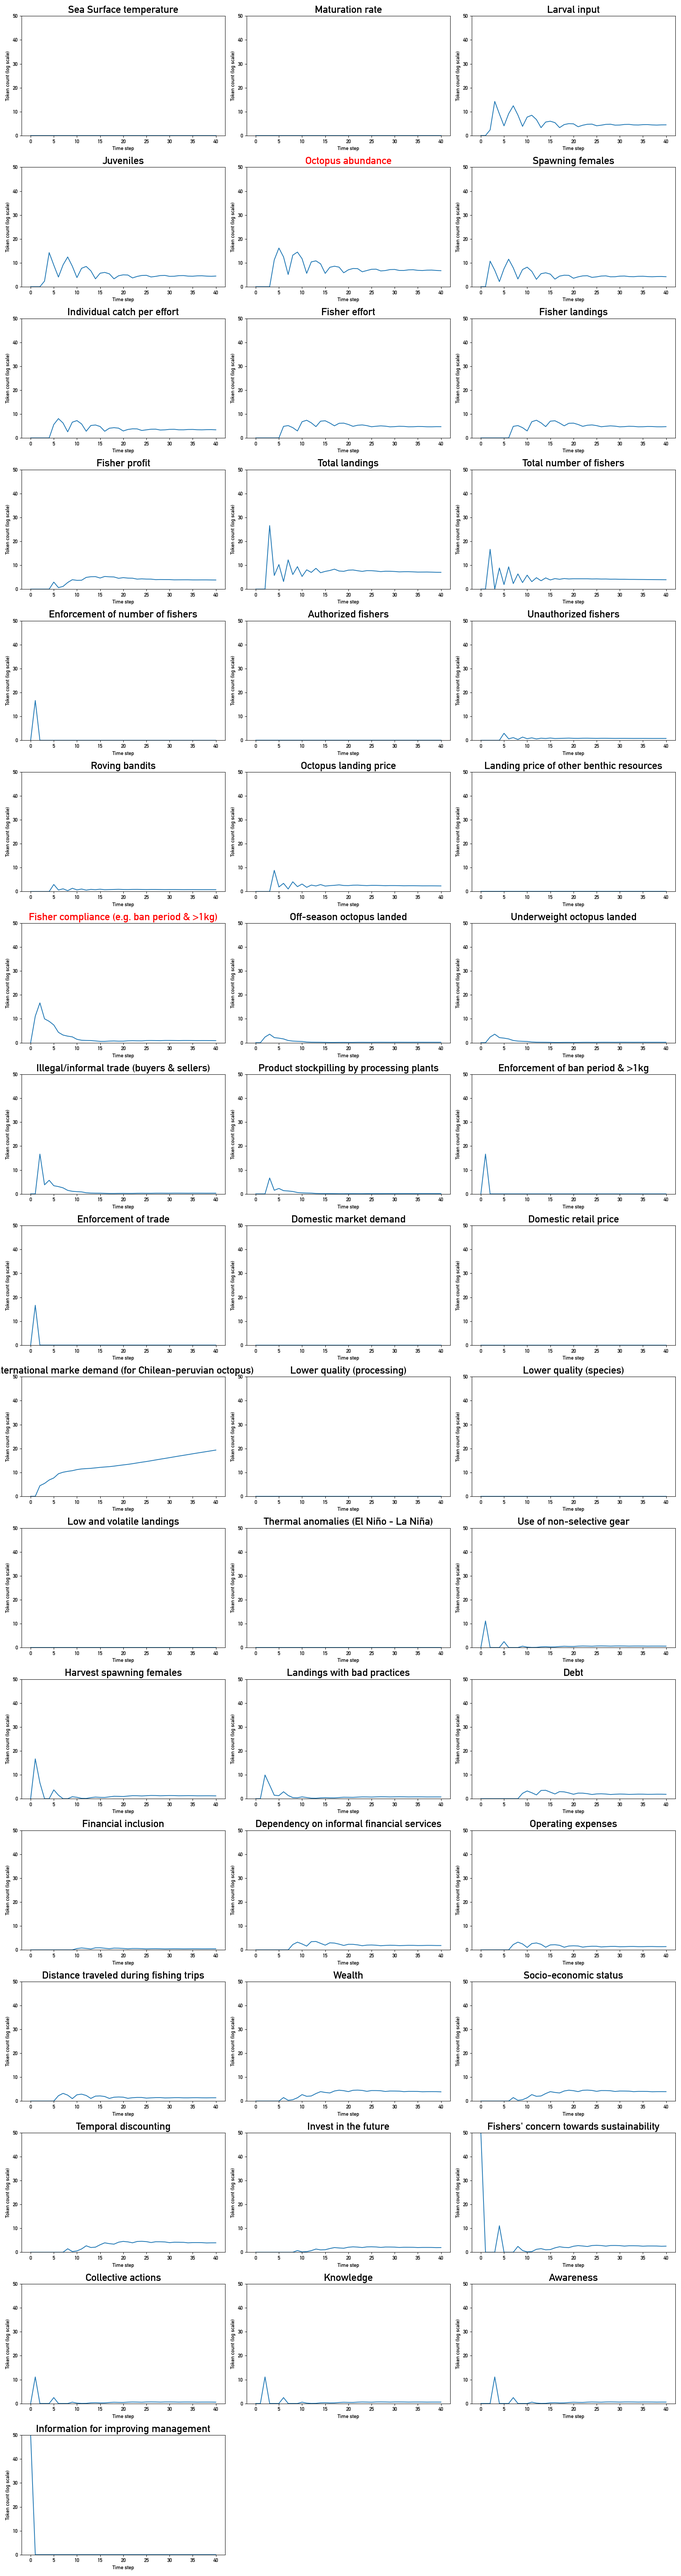
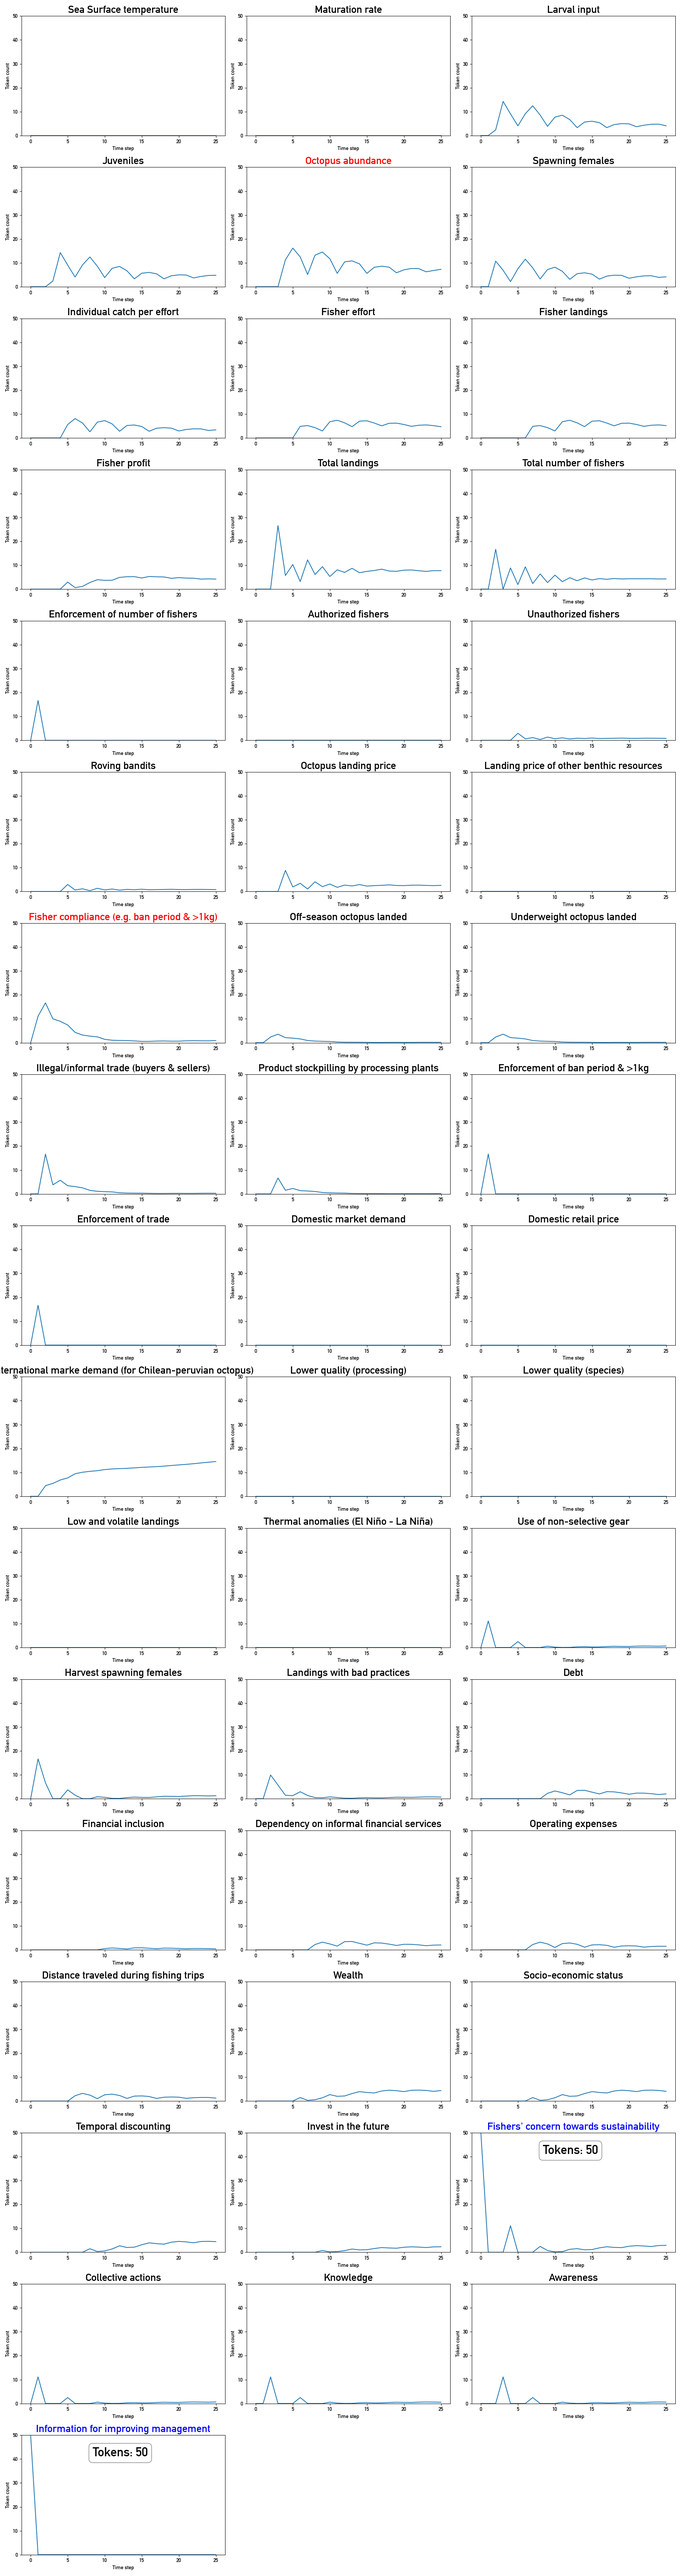
intervention lab improvements

Changed region(s): [[0.7778, 0.8106, 0.8711, 0.8418], [0.1556, 0.9353, 0.2178, 0.9665]]

diff --git a/streamlit/utilities.py b/streamlit/utilities.py
@@ -1875,8 +1875,9 @@ def pulse_diffusion_network_model(G, initial_tokens, num_steps, df, log_scale=Fa
             # Display the gauge chart in Streamlit
             st.plotly_chart(fig, use_container_width=True)
 
-        # Identify outcome nodes
+        # Identify outcome and intervention nodes
         outcome_nodes = df[df['OUTCOME NODE']]['long_name'].tolist()
+        intervention_nodes = df[df['TOKENS'] != 0]['long_name'].tolist()
 
         with col2:
         
@@ -1930,9 +1931,6 @@ def pulse_diffusion_network_model(G, initial_tokens, num_steps, df, log_scale=Fa
 
         st.markdown("#### Leverage of this intervention package on the outcome nodes")
 
-        # Identify outcome nodes
-        outcome_nodes = df[df['OUTCOME NODE']]['long_name'].tolist()
-
         # Create a line plot for the outcome nodes
         fig, ax = plt.subplots(figsize=(12, 8))
         
@@ -1979,9 +1977,8 @@ def pulse_diffusion_network_model(G, initial_tokens, num_steps, df, log_scale=Fa
             label.set_color('red')
 
     # Highlight nodes that have non-zero token counts (TOKENS column in df dataframe) in blue
-
     for label in ax.get_yticklabels():
-        if label.get_text() in df[df['TOKENS'] != 0]['long_name'].tolist():
+        if label.get_text() in intervention_nodes:
             label.set_color('blue')
 
     plt.xlabel('Time step')
@@ -2030,10 +2027,16 @@ def pulse_diffusion_network_model(G, initial_tokens, num_steps, df, log_scale=Fa
             ax.plot(row)
             if index in outcome_nodes:
                 ax.set_title(index, fontsize=20, color='red')  # Increase plot title font and set color to red
+            if index in intervention_nodes:
+                ax.set_title(index, fontsize=20, color='blue')
+                # Get the number of tokens for the current node
+                num_tokens = df[df['long_name'] == index]['TOKENS'].values[0]
+                # Add the number of tokens as a text box in the subplot
+                ax.text(0.35, 0.9, f'Tokens: {num_tokens}', transform=ax.transAxes, fontsize=24, verticalalignment='top', bbox=dict(boxstyle='round', facecolor='white', alpha=0.5))
             else:
                 ax.set_title(index, fontsize=20)  # Increase plot title font
             ax.set_xlabel('Time step')
-            ax.set_ylabel('Token count (log scale)')
+            ax.set_ylabel('Token count')
             ax.set_ylim([0, max_value])  # Set the y-axis limits
 
         # Remove unused subplots
